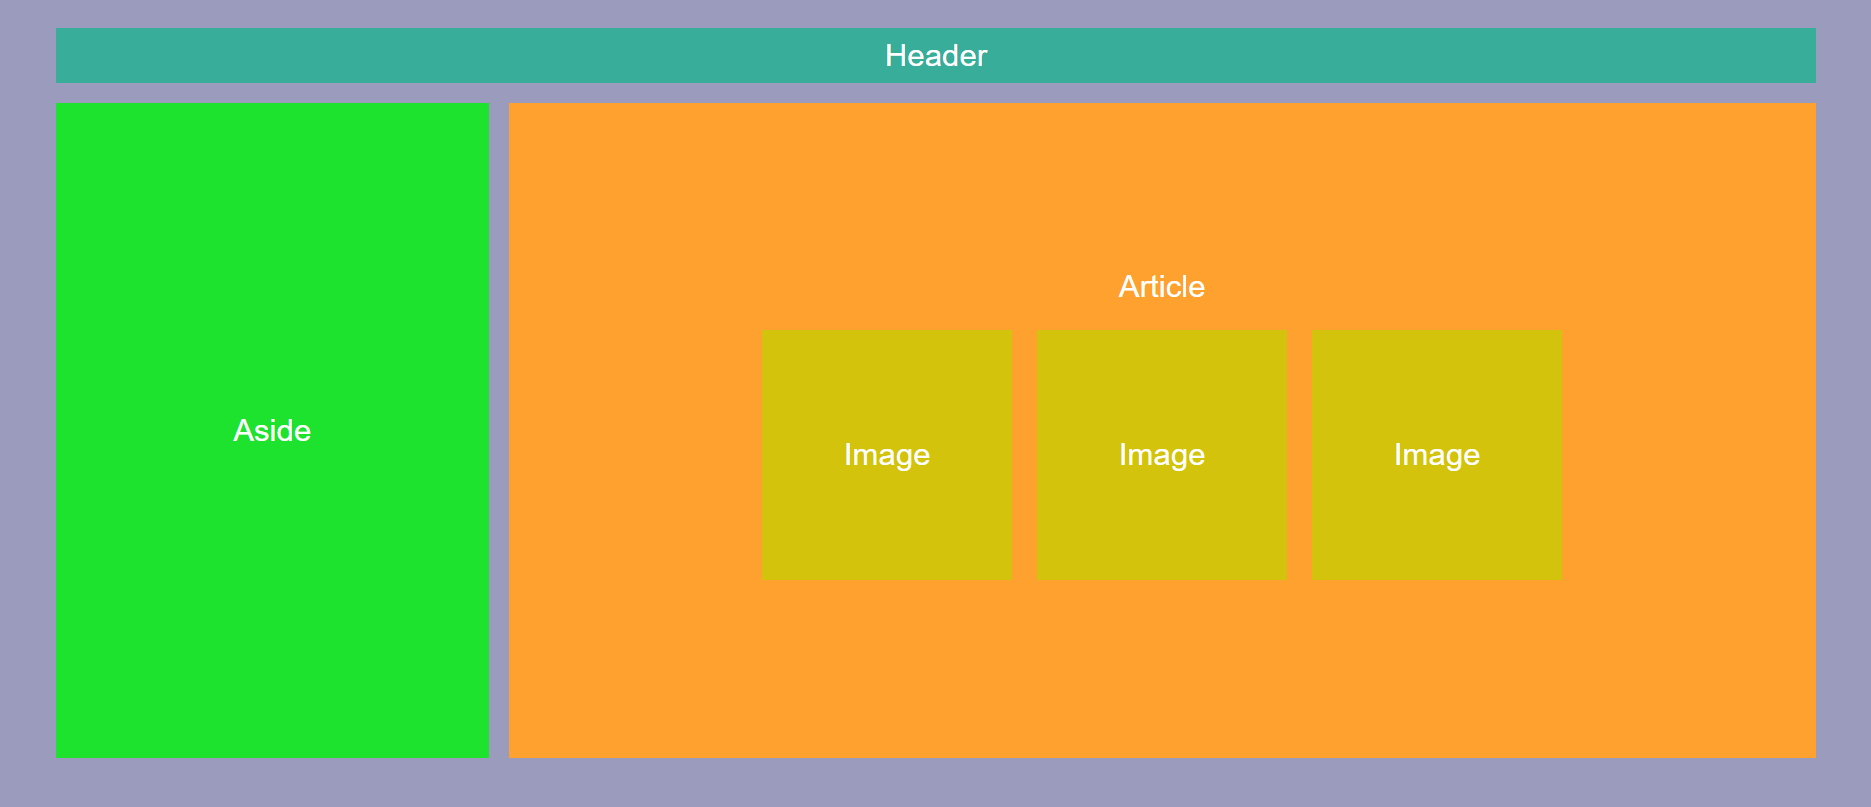
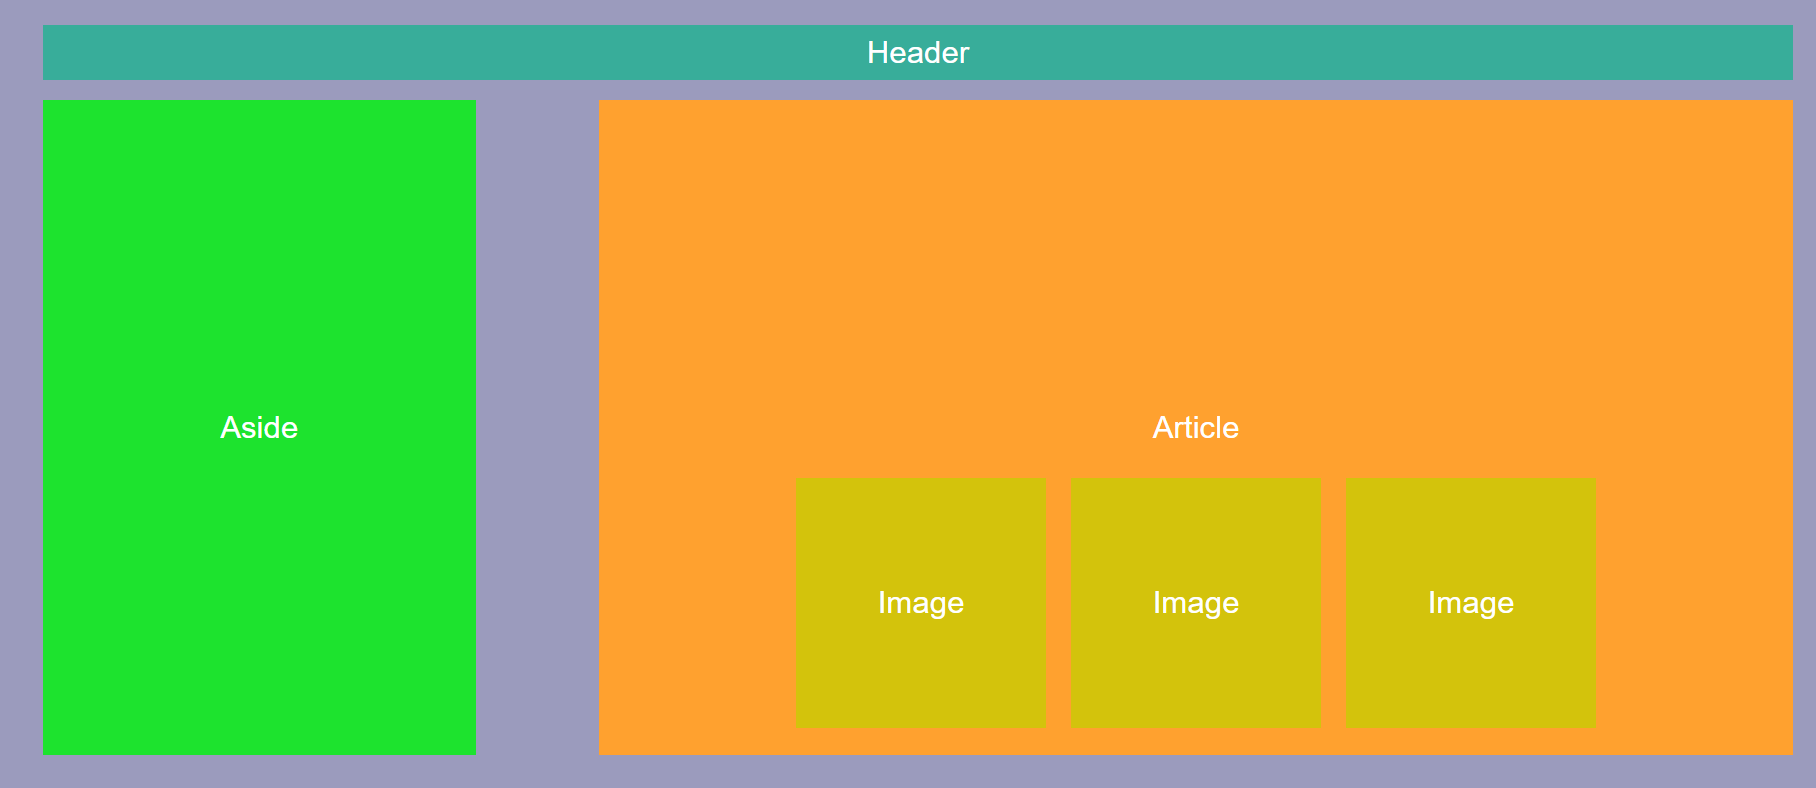
updated the grid layout

Changed region(s): [[0.0, 0.0305, 0.9868, 0.9746], [0.1233, 0.5178, 0.185, 0.5787], [0.5859, 0.335, 0.6476, 0.3655]]

diff --git a/style.css b/style.css
@@ -45,23 +45,23 @@ body {
   #article {
     grid-area: aside;
     height: 500px;
-    width: 1000px;
+    /* width: 1000px; */
     display: flex;
     flex-direction: column;
-    justify-content: center;
     align-items: center;
     background-color: rgb(255, 161, 47);
     color: white;
     font-size: 25px;
     font-family: Arial;
+    /* overflow: hidden; */
   }
   
-  .Image-boxes {
+  .image-boxes {
     display: flex;
     flex-direction: row;
     justify-content: center;
     align-items: flex-end;
-    margin-top: 20px;
+    /* margin-top: 100px; */
   }
   
   .image-box {
@@ -69,6 +69,7 @@ body {
     height: 200px;
     background-color: rgb(211, 195, 12);
     display: flex;
+    /* flex-direction: row; */
     justify-content: center;
     align-items: center;
     color: white;

diff --git a/index.html b/index.html
@@ -11,7 +11,7 @@
       <div id="navbar" class="item">Header</div>
       <div id="aside" class="item">Aside</div>
       <div id="article" class="item">
-        Article
+        <p style="margin-top: auto">Article</p>
         <div class="image-boxes">
           <div class="image-box">Image</div>
           <div class="image-box">Image</div>
